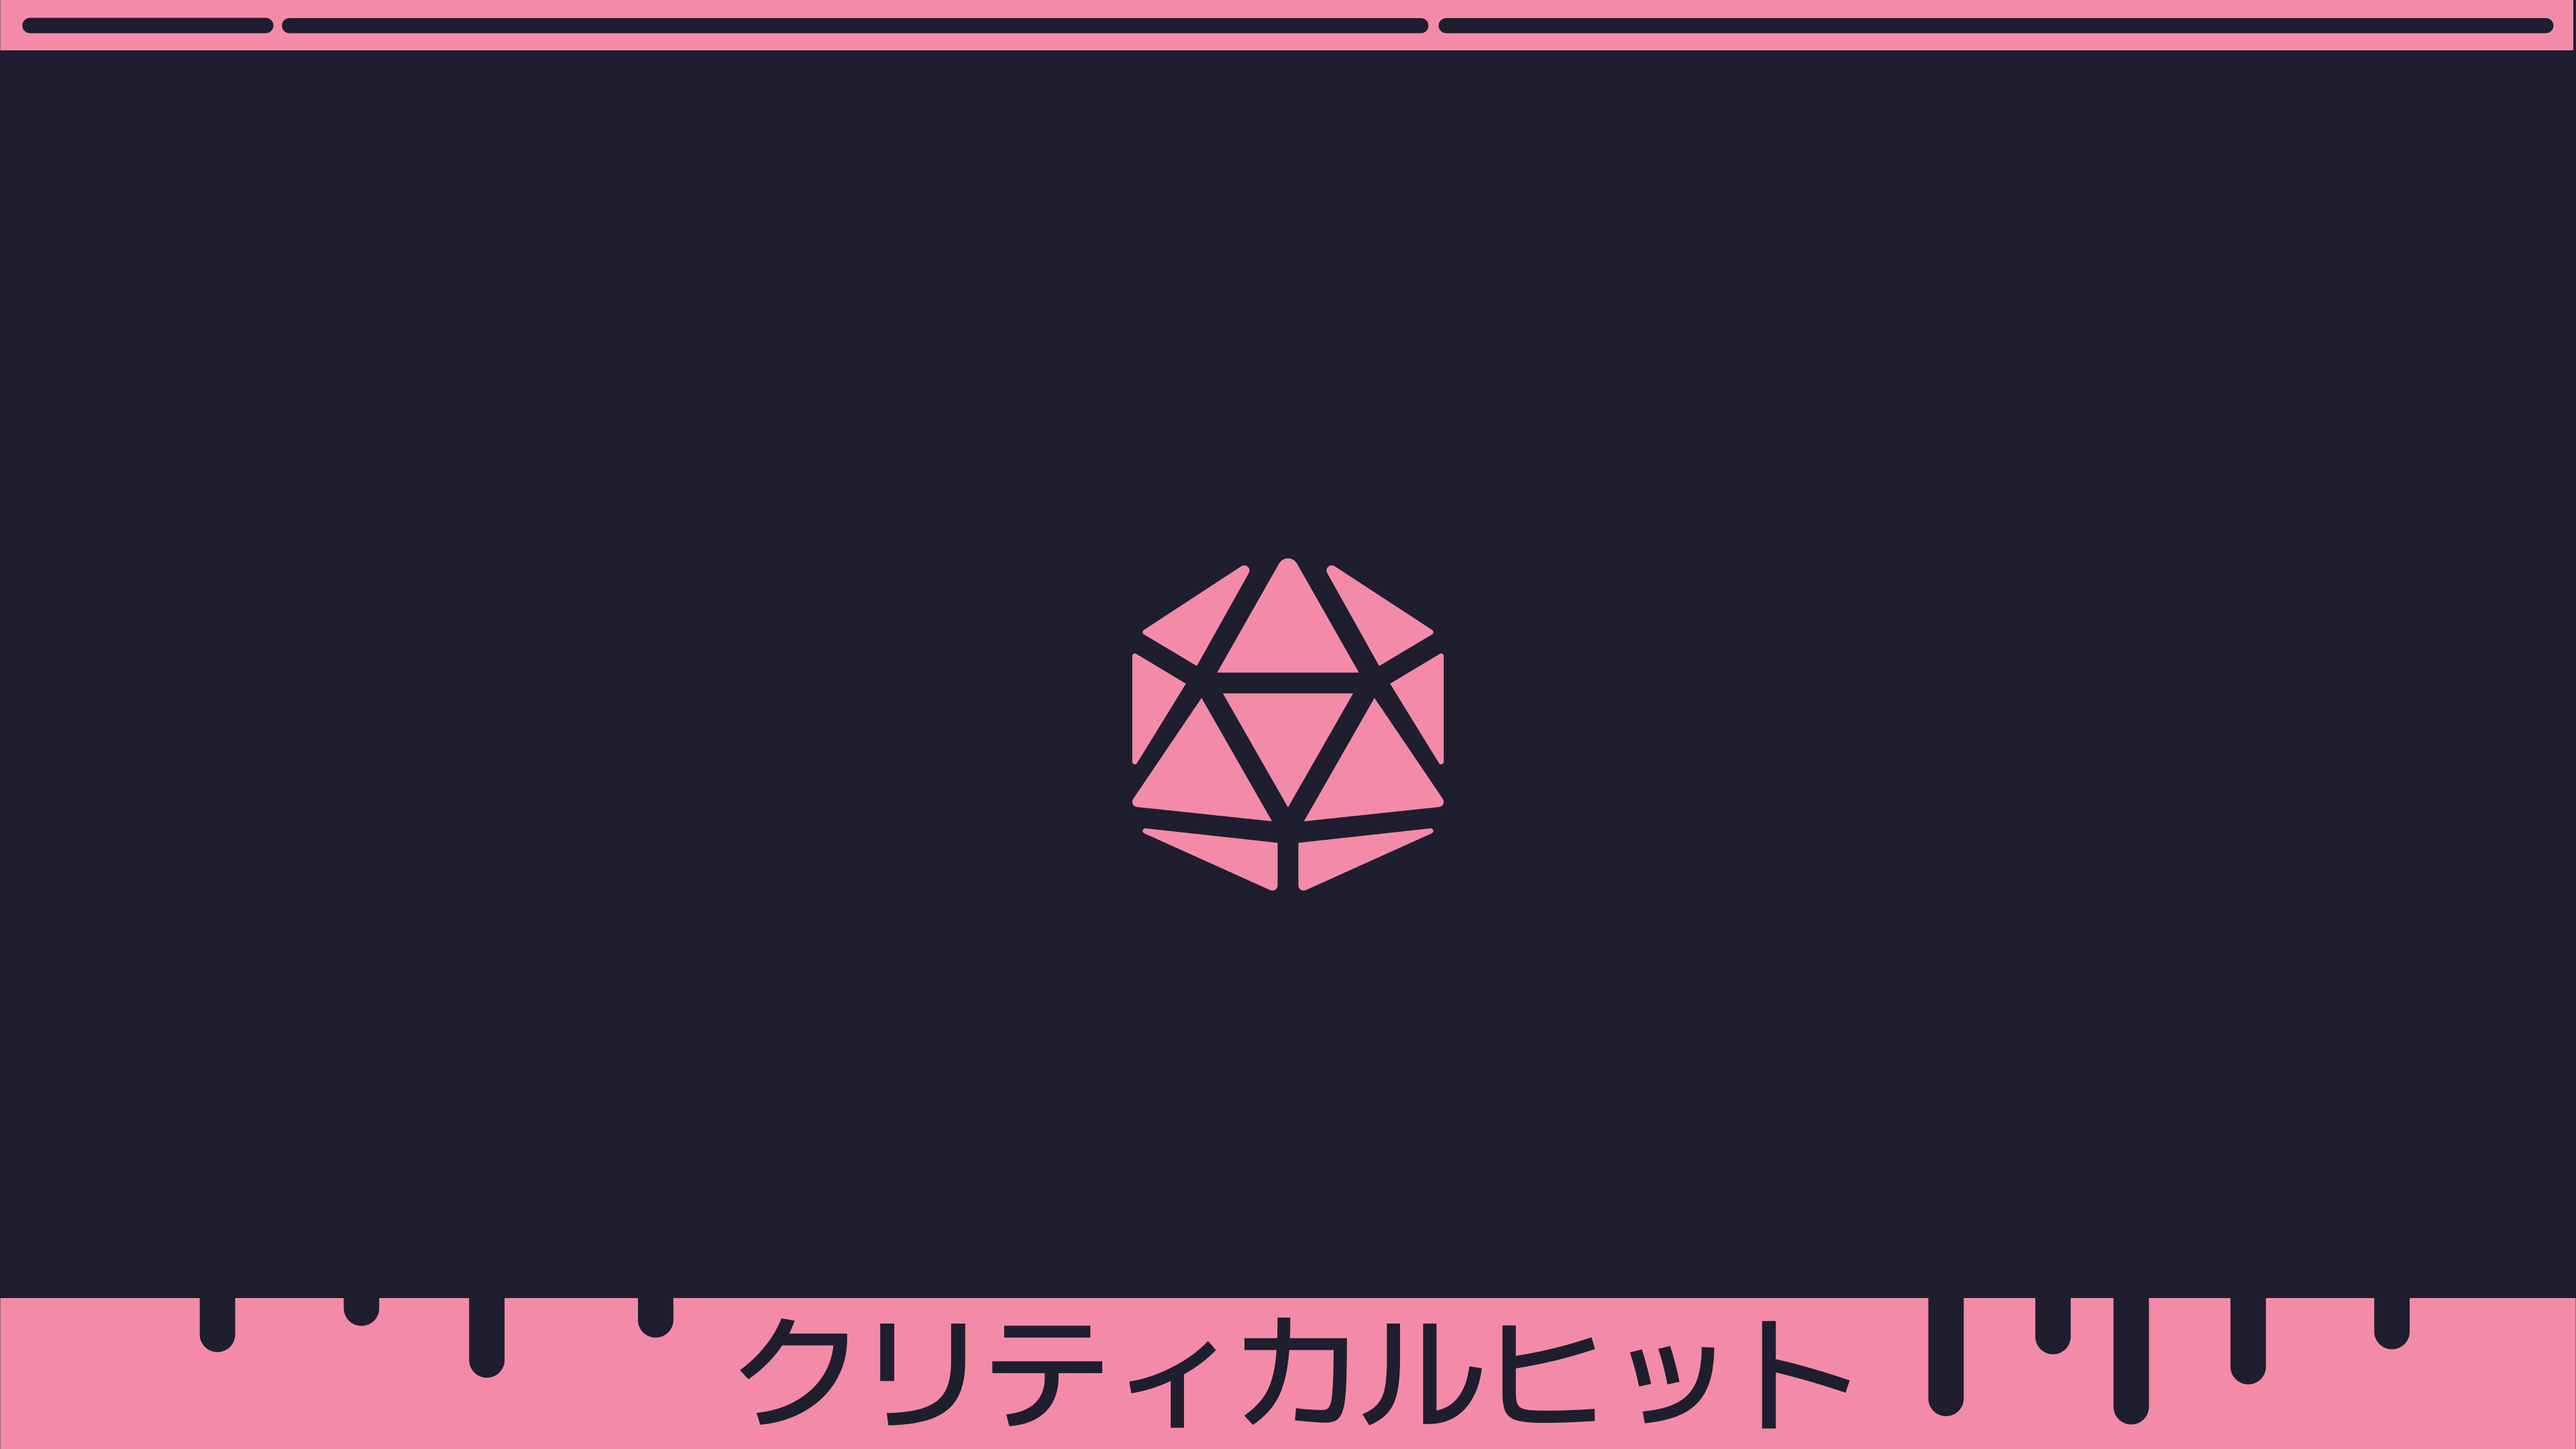
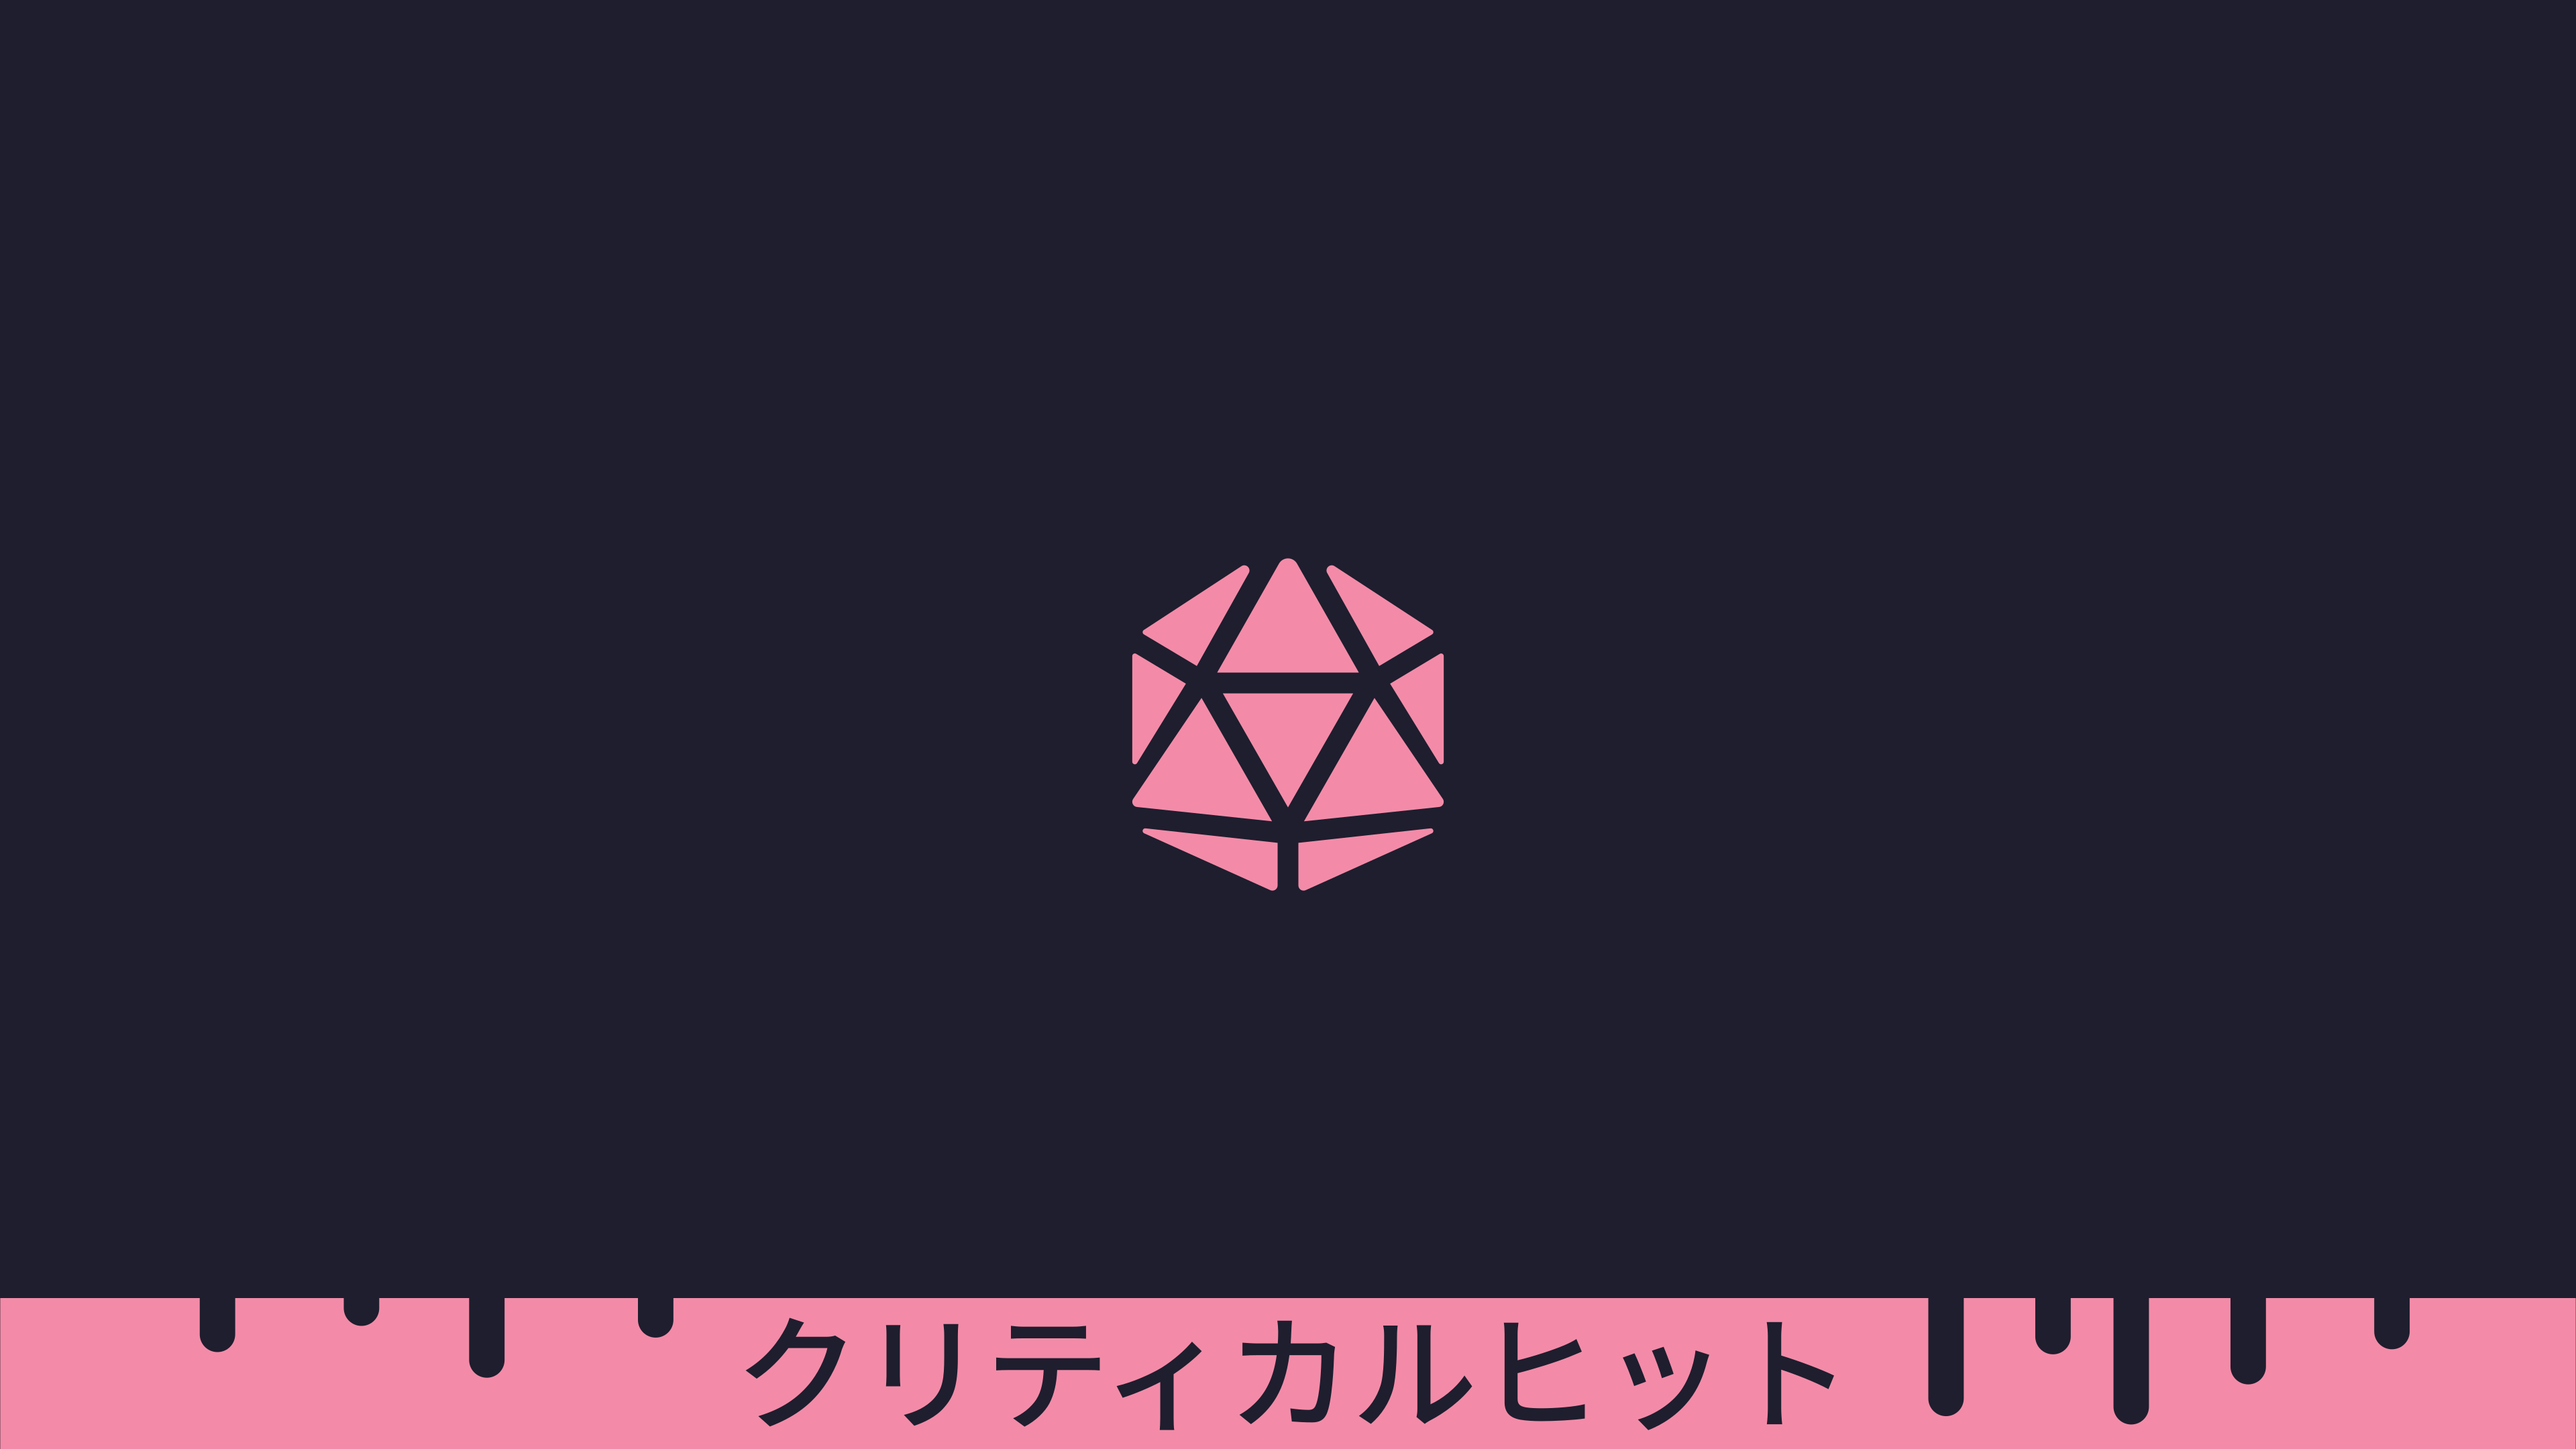
chang wallpaper and update waybar style

Changed region(s): [[0.0, 0.0, 1.0, 0.062], [0.5, 0.8995, 0.7188, 0.9926], [0.2812, 0.8995, 0.4688, 0.9926]]

diff --git a/config/waybar/style.css b/config/waybar/style.css
@@ -3,6 +3,14 @@
 }
 
 window#waybar {
+	background-color: #181825;
 	border-bottom-left-radius: 20px;
 	border-bottom-right-radius: 20px;
+	border: 3px #f38ba8 solid;
+	border-top: 0px;
+}
+
+label.module {
+	padding-right: 10px;
+	padding-left: 10px;
 }
